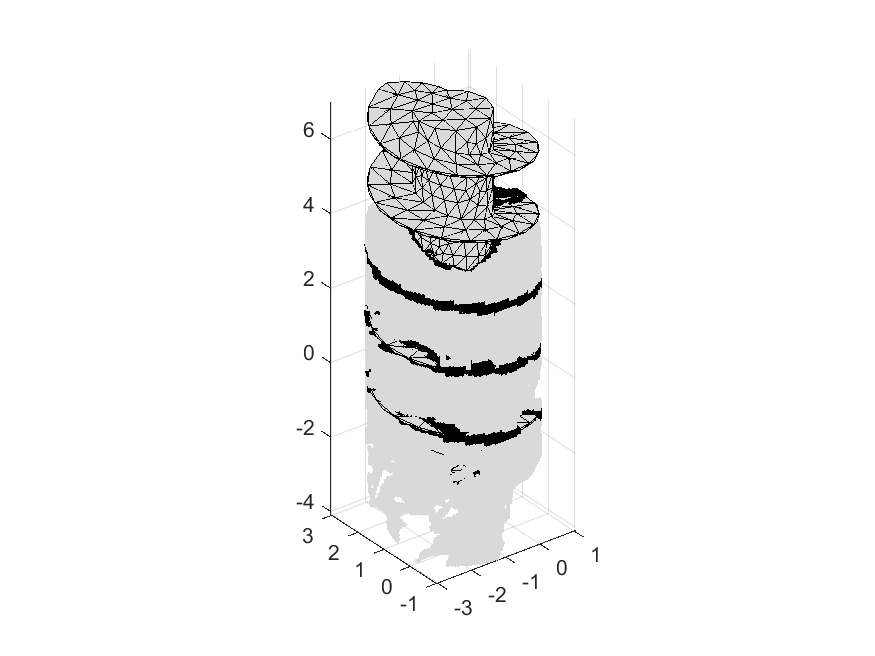
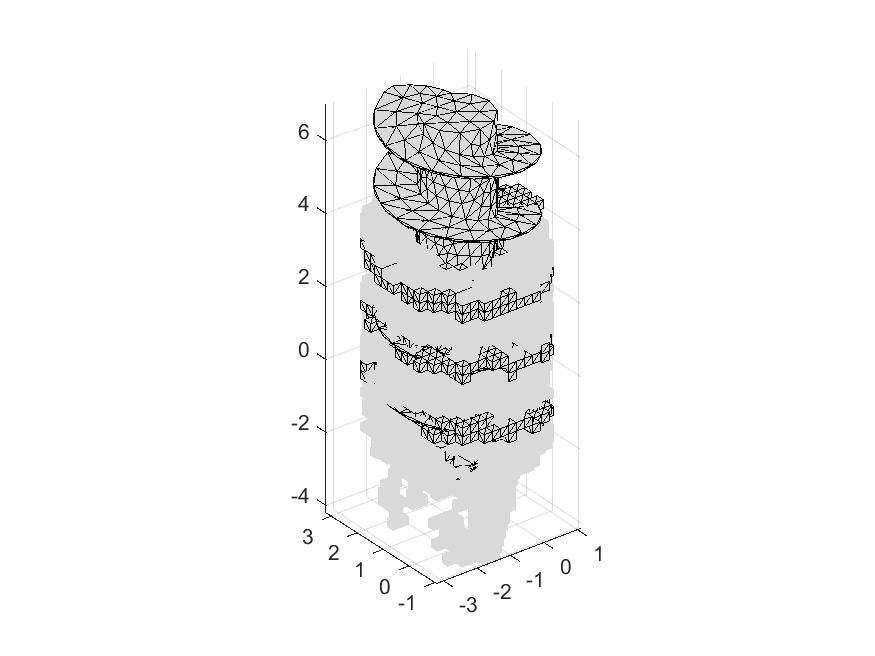
innerDia included

diff --git a/meshBoolean/funMeshBoolean.m b/meshBoolean/funMeshBoolean.m
@@ -5,17 +5,37 @@ function [toDelEles] = funMeshBoolean(boneData, screwData, outerRadius, innerRad
 % input outerRadius:        Outer radius of screw
 % input innerRadius:        Screw movement due to insertion position
 
-%% Screw geometry and preprocessing
-
+%% screw geometry and preprocessing
 % loop over Hex mesh check if any point inner Outer diameter
-eleNodesBoolCoor = reshape(((boneData.allNodes(boneData.Elements(:,2:9),2)-screwMove(1)).^2+...
+eleNodesBoolDist = reshape(((boneData.allNodes(boneData.Elements(:,2:9),2)-screwMove(1)).^2+...
     (boneData.allNodes(boneData.Elements(:,2:9),3)-screwMove(2)).^2), [], 8);
-eleNodesBool = (eleNodesBoolCoor <= outerRadius^2);
-[eleNodesBoolRow, ~] = find(eleNodesBool);
-ele2Check = unique(eleNodesBoolRow);
+eleNOUTBool = (eleNodesBoolDist <= outerRadius^2);
+[eleNOUTBoolRow, ~] = find(eleNOUTBool);
+ele2CheckOUT = unique(eleNOUTBoolRow);
+% hexEleZoneNode = boneData.Elements(ele2Check,:);
 
+%% check if hex mesh in inner diameter range & higher than a value (TO DELETE)
+eleNINNBool = (eleNodesBoolDist <= innerRadius^2);
+[eleNINNBoolRow, ~] = find(eleNINNBool);
+ele2CheckINN = unique(eleNINNBoolRow);
+% ele2Check = unique([ele2CheckOUT;ele2CheckINN]);
+
+ele2Check = setdiff(ele2CheckOUT,ele2CheckINN);
 hexEleZoneNode = boneData.Elements(ele2Check,:);
-% toc
+
+%% Prescan if hex mesh distance to tet mesh (critical distance setting)
+% eleNBCoor = [mean(reshape(boneData.allNodes(boneData.Elements(:,2:9),2),[],8),2),...
+%     mean(reshape(boneData.allNodes(boneData.Elements(:,2:9),3),[],8),2),...
+%     mean(reshape(boneData.allNodes(boneData.Elements(:,2:9),4),[],8),2)...
+%     ];
+% eleNBCoorCheck = eleNBCoor(ele2Check,:);
+% eleNSCoor = [mean(reshape(screwData.Nodes(screwData.Elements(:,2:5),2),[],4),2),...
+%     mean(reshape(screwData.Nodes(screwData.Elements(:,2:5),3),[],4),2),...
+%     mean(reshape(screwData.Nodes(screwData.Elements(:,2:5),4),[],4),2)...
+%     ];
+% 
+% DistMatrix = 
+
 %% check if hex mesh points inside tet mesh elements
 ele2Del = [];
 parfor ii=1: size(hexEleZoneNode,1)

diff --git a/voxelMesh/testVoxelMeshRF.m b/voxelMesh/testVoxelMeshRF.m
@@ -9,7 +9,7 @@ tic
 %% load bone micro-CT
 folder_name = 'RF_20_R_VOIs';
 pixelSize = 11.953001/1000; % unit: mm, same as Abaqus unit
-scaleFac = 0.25; % scale factor of the model, 0.1 means 1/10 voxels in one dimension
+scaleFac = 0.05; % scale factor of the model, 0.1 means 1/10 voxels in one dimension
 im = importImSeqs(folder_name);
 %% load Screw mesh
 load screwMesh.mat
